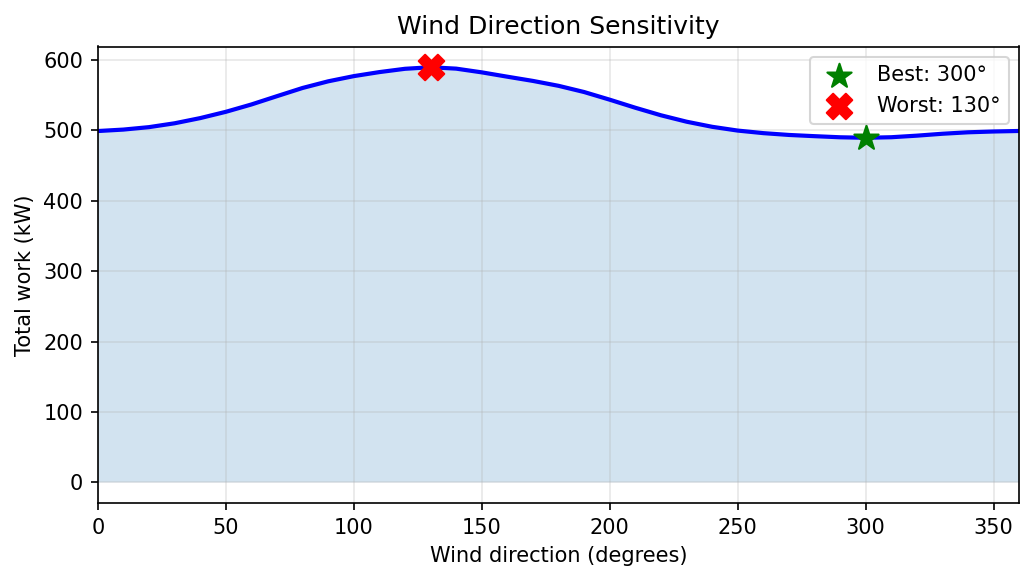
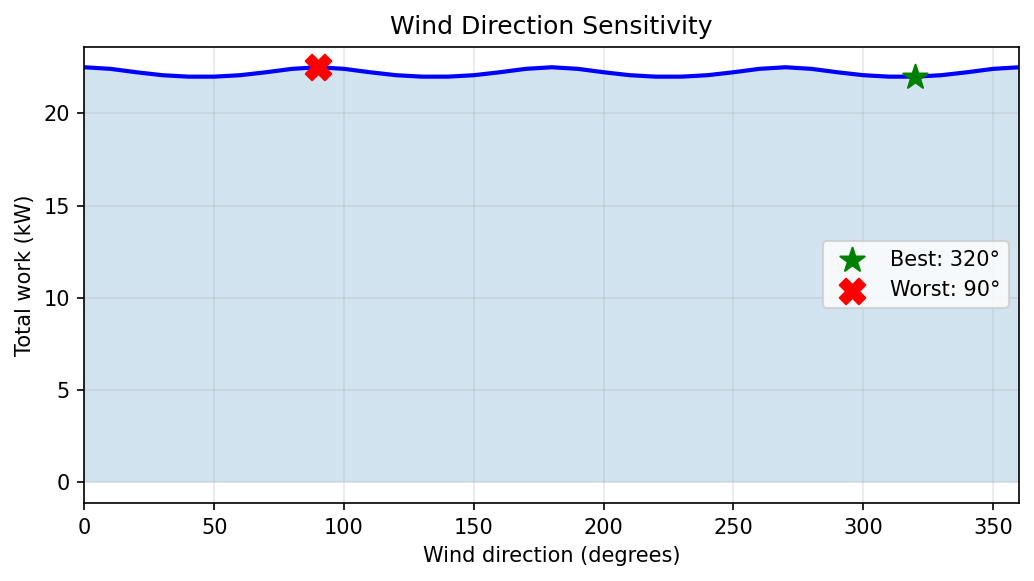
fix: use higher base_cop (5.5) and new chillers for realistic COP values in figures

diff --git a/scripts/generate_doc_figures.py b/scripts/generate_doc_figures.py
@@ -218,7 +218,11 @@ def plot_example1_thermal_plume() -> None:
 def plot_example2_density_penalty() -> None:
     """Example 2: Isolated vs crowded COP comparison."""
     wind = WindVector(velocity_m_per_s=(1.0, 0.4), ambient_temp_k=298.15)
-    array = ChillerArray.create_grid(rows=5, cols=5, spacing_m=3.0, base_cop=4.0)
+    # base_cop=5.5 typical for water-cooled chillers; 5m spacing; new chillers (age=0)
+    array = ChillerArray.create_grid(
+        rows=5, cols=5, spacing_m=5.0, base_cop=5.5,
+        ages_years=np.zeros(25, dtype=np.float64),
+    )
     env = SimulationEnvironment(array, wind, GaussianPlumeModel(1.2))
     center_idx = 12
 
@@ -243,8 +247,8 @@ def plot_example2_density_penalty() -> None:
     for b in bars:
         ax.text(b.get_x() + b.get_width() / 2, b.get_height() + pad, f"{b.get_height():.2f}",
                 ha="center", va="bottom", fontsize=10)
-    ax.set_ylim(0, 4.8)
-    ax.axhline(4.0, color="gray", linestyle="--", alpha=0.5)
+    ax.set_ylim(0, 6.2)
+    ax.axhline(5.5, color="gray", linestyle="--", alpha=0.5)
     fig.tight_layout()
     _save(fig, "example2_density_penalty.png")
 
@@ -252,7 +256,10 @@ def plot_example2_density_penalty() -> None:
 def plot_example3_less_is_more() -> None:
     """Example 3: Standard vs optimized activation."""
     wind = WindVector(velocity_m_per_s=(1.0, 0.4), ambient_temp_k=298.15)
-    array = ChillerArray.create_grid(rows=5, cols=5, spacing_m=3.0)
+    array = ChillerArray.create_grid(
+        rows=5, cols=5, spacing_m=4.0, base_cop=5.5,
+        ages_years=np.zeros(25, dtype=np.float64),
+    )
     env = SimulationEnvironment(array, wind, GaussianPlumeModel(1.2))
     total_load = 100.0
     target = 15
@@ -287,7 +294,10 @@ def plot_example3_less_is_more() -> None:
 
 def plot_example4_wind_sensitivity() -> None:
     """Example 4: Work vs wind direction."""
-    array = ChillerArray.create_grid(rows=5, cols=5, spacing_m=3.0)
+    array = ChillerArray.create_grid(
+        rows=5, cols=5, spacing_m=4.0, base_cop=5.5,
+        ages_years=np.zeros(25, dtype=np.float64),
+    )
     model = GaussianPlumeModel(1.2)
     active = np.ones(array.num_chillers, dtype=bool)
     load = 100.0
@@ -340,7 +350,10 @@ def plot_example5_interaction_models() -> None:
             return A
 
     wind = WindVector(velocity_m_per_s=(1.0, 0.4), ambient_temp_k=298.15)
-    array = ChillerArray.create_grid(rows=5, cols=5, spacing_m=3.0)
+    array = ChillerArray.create_grid(
+        rows=5, cols=5, spacing_m=4.0, base_cop=5.5,
+        ages_years=np.zeros(25, dtype=np.float64),
+    )
     active = np.ones(array.num_chillers, dtype=bool)
     load = 100.0
 

diff --git a/docs/examples.rst b/docs/examples.rst
@@ -81,9 +81,12 @@ Compare COP of an isolated chiller vs. one surrounded by active neighbors:
    from src.models import GaussianPlumeModel
    from src.simulation import SimulationEnvironment
 
-   # Setup 5x5 array
+   # Setup 5x5 array (base_cop=5.5 typical for water-cooled chillers)
    wind = WindVector(velocity_m_per_s=(1.0, 0.4), ambient_temp_k=298.15)
-   array = ChillerArray.create_grid(rows=5, cols=5, spacing_m=3.0, base_cop=4.0)
+   array = ChillerArray.create_grid(
+       rows=5, cols=5, spacing_m=5.0, base_cop=5.5,
+       ages_years=np.zeros(25, dtype=np.float64),
+   )
    env = SimulationEnvironment(array, wind, GaussianPlumeModel(1.2))
 
    center_idx = 12  # Middle chiller
@@ -110,12 +113,12 @@ Compare COP of an isolated chiller vs. one surrounded by active neighbors:
 
 .. code-block:: text
 
-   Isolated Chiller COP: 4.00
-   Crowded Chiller COP: 2.80
-   Efficiency Loss: 30.1%
+   Isolated Chiller COP: 5.50
+   Crowded Chiller COP: 4.59
+   Efficiency Loss: 16.5%
 
 This demonstrates that a chiller in the center of a dense array experiences
-a **30% reduction in COP** due to thermal interference from surrounding units.
+reduced COP due to thermal interference from surrounding units.
 
 
 Example 3: "Less is More" Optimization
@@ -260,9 +263,12 @@ Compare different thermal interaction models on the same array:
                            A[k, m] = self.decay / (np.linalg.norm(d) + 1)
            return A
 
-   # Setup
+   # Setup (base_cop=5.5, new chillers)
    wind = WindVector(velocity_m_per_s=(1.0, 0.4), ambient_temp_k=298.15)
-   array = ChillerArray.create_grid(rows=5, cols=5, spacing_m=3.0)
+   array = ChillerArray.create_grid(
+       rows=5, cols=5, spacing_m=4.0, base_cop=5.5,
+       ages_years=np.zeros(25, dtype=np.float64),
+   )
    active = np.ones(array.num_chillers, dtype=bool)
    load = 100.0
 
@@ -282,9 +288,9 @@ Compare different thermal interaction models on the same array:
 
 .. code-block:: text
 
-   Gaussian (σ=1.2): 33.43 kW (Mean COP: 3.08)
-   Gaussian (σ=2.0): 36.19 kW (Mean COP: 2.88)
-   Simple Distance: 38.86 kW (Mean COP: 2.67)
+   Gaussian (σ=1.2): 22.19 kW (Mean COP: 4.58)
+   Gaussian (σ=2.0): 23.45 kW (Mean COP: 4.36)
+   Simple Distance: 26.05 kW (Mean COP: 3.94)
 
 The dispersion coefficient (σ) significantly affects predictions:
 
